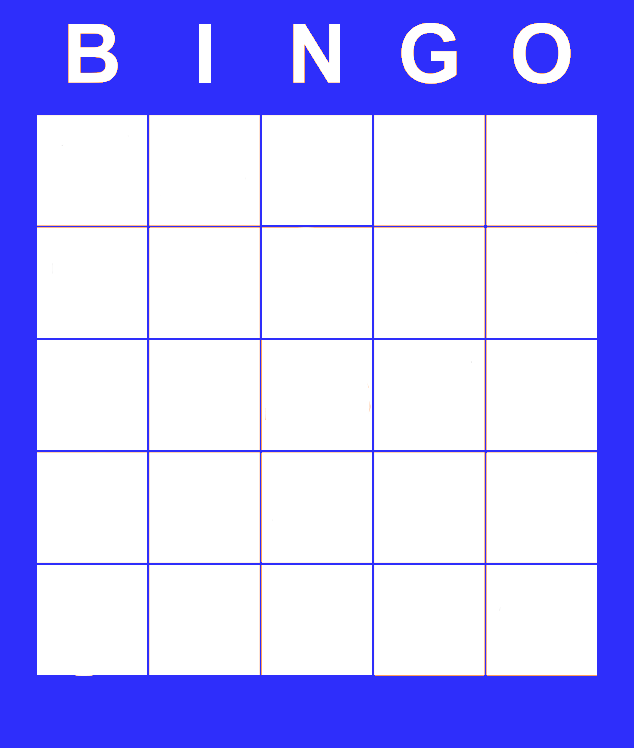
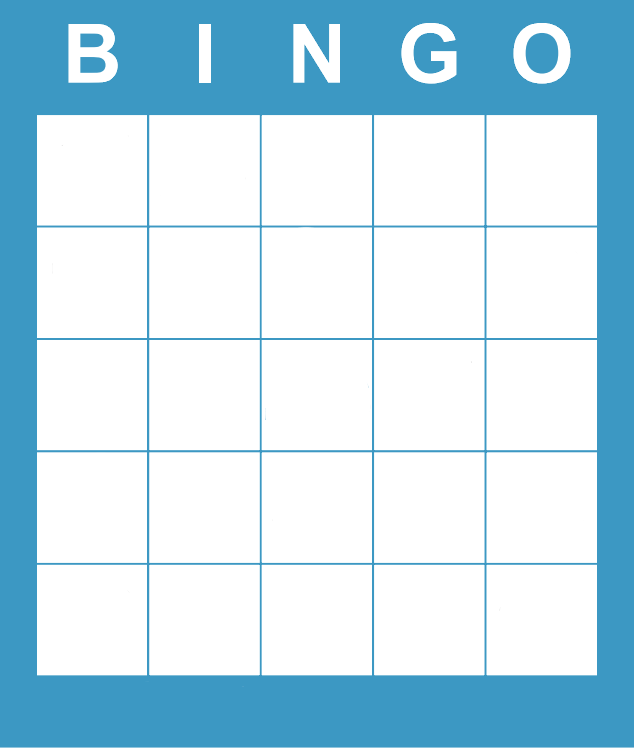
Cambio de aparencia de los cartones

diff --git a/proyecto_bingo/src/CartonBingo.java b/proyecto_bingo/src/CartonBingo.java
@@ -59,80 +59,80 @@ public class CartonBingo {
     return "JJO" + formatoContador; // Joza, Jeff, Oscar
   }
 
-  // Getters y setters (métodos para acceder y modificar los atributos)
-  public String getIdentificador() {
-    return identificador;
- }
-
- public int[][] getMatriz() {
-    return matriz;
-}
-
- public int[][] getMatrizMarcado() {
-    return matrizMarcado;
-}
-
-public void generarPNG() {
+  private void generarPNG() {
     int width = 634; // Ancho de la imagen
     int height = 748; // Alto de la imagen
-
+  
     BufferedImage image = new BufferedImage(width, height, BufferedImage.TYPE_INT_ARGB);
     Graphics2D g2d = image.createGraphics();
-
+  
     // Generar un número aleatorio del 1 al 3
     Random random = new Random();
     int numeroAleatorio = random.nextInt(3) + 1;
-
+  
     // Determinar el nombre de la imagen según el número aleatorio
     String nombreImagen;
     if (numeroAleatorio == 1) {
-        nombreImagen = "ImagenesDeCartones/CartonNaranja.png";
+      nombreImagen = "ImagenesDeCartones/CartonNaranja.png";
     } else if (numeroAleatorio == 2) {
-        nombreImagen = "ImagenesDeCartones/CartonAzul.png";
+      nombreImagen = "ImagenesDeCartones/CartonAzul.png";
     } else {
-        nombreImagen = "ImagenesDeCartones/CartonVerde.png";
+      nombreImagen = "ImagenesDeCartones/CartonVerde.png";
     }
-
+  
     // Cargar la imagen de fondo
     try {
-        BufferedImage background = ImageIO.read(new File(nombreImagen));
-
-        // Dibuja la imagen de fondo
-        g2d.drawImage(background, 0, 0, null);
+      BufferedImage background = ImageIO.read(new File(nombreImagen));
+  
+      // Dibuja la imagen de fondo
+      g2d.drawImage(background, 0, 0, null);
     } catch (IOException e) {
-        e.printStackTrace();
+      e.printStackTrace();
     }
-
+  
     // Configura la fuente y el color para los números
     g2d.setColor(Color.BLACK);
     g2d.setFont(new Font("Arial", Font.BOLD, 56));
-
+  
     // Dibuja los números en la imagen
     for (int fila = 0; fila < 5; fila++) {
-        for (int columna = 0; columna < 5; columna++) {
-            int numero = matriz[fila][columna];
-            String numeroStr = String.valueOf(numero);
-            int x = columna * (561 / 5) + 66; // Ajustar la horizontal
-            int y = fila * (580 / 5) + 177; // Ajusta la posición vertical
-
-            g2d.drawString(numeroStr, x, y);
-        }
+      for (int columna = 0; columna < 5; columna++) {
+        int numero = matriz[fila][columna];
+        String numeroStr = String.valueOf(numero);
+        int x = columna * (561 / 5) + 66; // Ajustar la horizontal
+        int y = fila * (580 / 5) + 177; // Ajusta la posición vertical
+  
+        g2d.drawString(numeroStr, x, y);
+      }
     }
-
+  
     // Dibuja el identificador abajo
     g2d.setColor(Color.BLACK);
     g2d.setFont(new Font("Arial", Font.PLAIN, 26));
     g2d.drawString(identificador, 271, 720); // Ajusta la posición vertical
-
+  
     g2d.dispose();
-
+  
     try {
-        String pngFileName = "cartones/" + identificador + ".png";
-        File outputFile = new File(pngFileName);
-        outputFile.getParentFile().mkdirs(); // Crea el directorio si no existe
-        ImageIO.write(image, "png", outputFile);
+      String pngFileName = "cartones/" + identificador + ".png";
+      File outputFile = new File(pngFileName);
+      outputFile.getParentFile().mkdirs(); // Crea el directorio si no existe
+      ImageIO.write(image, "png", outputFile);
     } catch (IOException e) {
-        e.printStackTrace();
+      e.printStackTrace();
     }
-}
+  }
+  
+        // Getters y setters (métodos para acceder y modificar los atributos)
+  public String getIdentificador() {
+    return identificador;
+  }
+
+  public int[][] getMatriz() {
+    return matriz;
+  }
+
+  public int[][] getMatrizMarcado() {
+    return matrizMarcado;
+  }
 }

diff --git a/proyecto_bingo/src/PruebaCartonBingo.java b/proyecto_bingo/src/PruebaCartonBingo.java
@@ -1,7 +1,7 @@
 
 public class PruebaCartonBingo {
     public static void main(String[] args) {
-        int cantidadCartones = 10; // Cantidad de cartones a generar
+        int cantidadCartones = 5; // Cantidad de cartones a generar
 
         for (int i = 0; i < cantidadCartones; i++) {
             CartonBingo carton = new CartonBingo();

diff --git a/proyecto_bingo/src/Jugador.java b/proyecto_bingo/src/Jugador.java
@@ -1,3 +1,4 @@
+
 public class Jugador {
   private String nombre;
   private String correo;
